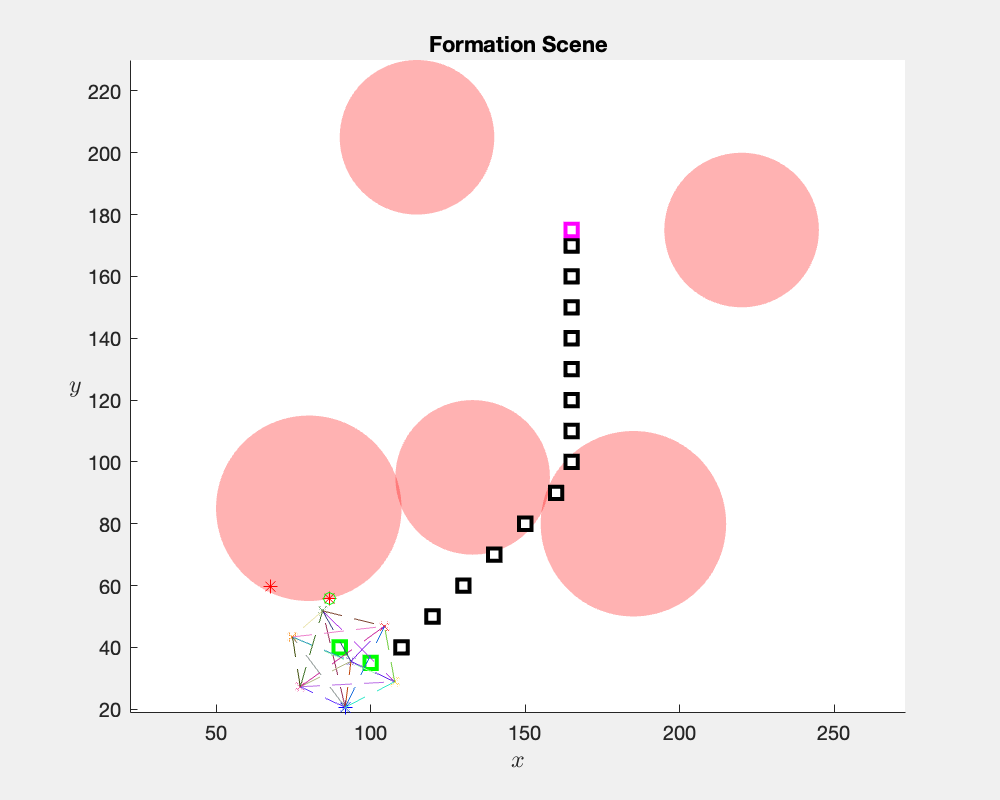
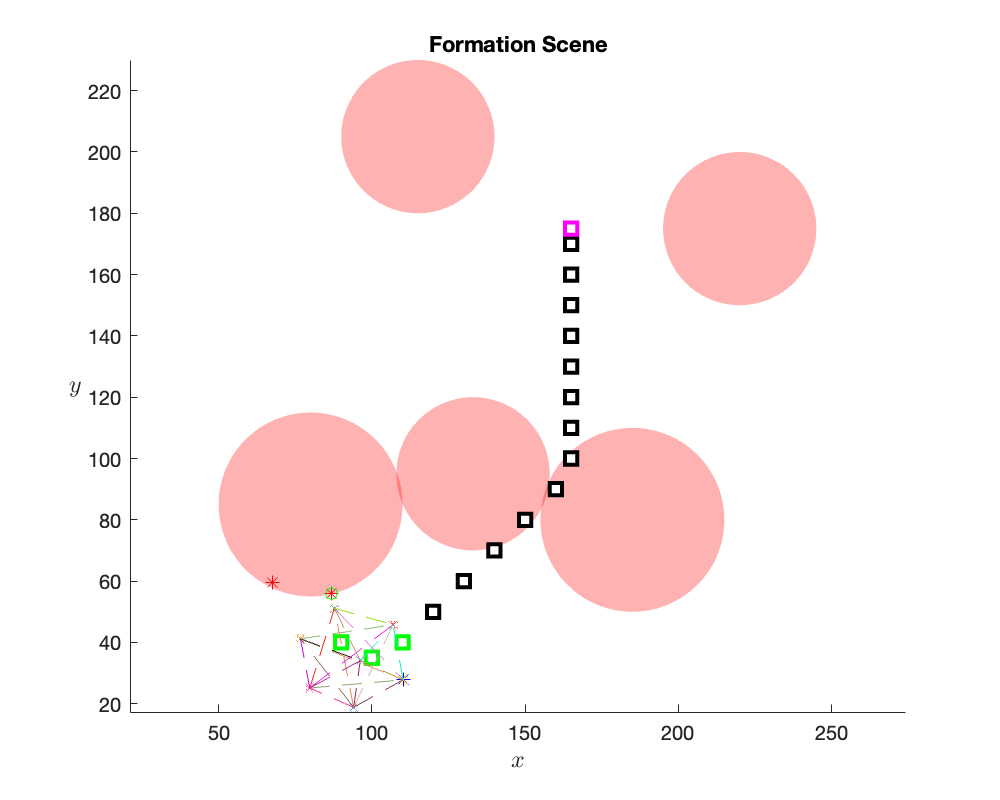
Add more figures

diff --git a/src/Formation_PSO_Path_Planning.m b/src/Formation_PSO_Path_Planning.m
@@ -38,8 +38,8 @@ path_alg = "a_star";
 
 
 % The position of the destination
-dest_x = 150;
-dest_y = 150;
+dest_x = 165;
+dest_y = 175;
 dest_pos = [dest_x, dest_y];
 
 checkpoints = [dest_x, dest_y;];
@@ -49,12 +49,15 @@ destination_threshold = 15;
 
 % The position of the obstacle
 obs_centers = [
-    60, 105; 
-    125, 75;
+    80, 85;
+    133, 95;
+    185, 80;
+    115, 205;
+    220, 175;
 ]; % Coordinates of multiple obstacle centers
 
 obs_radii = [
-30; 35;
+30; 25; 30; 25; 25;
 ]; % Radii of multiple obstacles
 
 avoid_directions = zeros(swarm_size);
